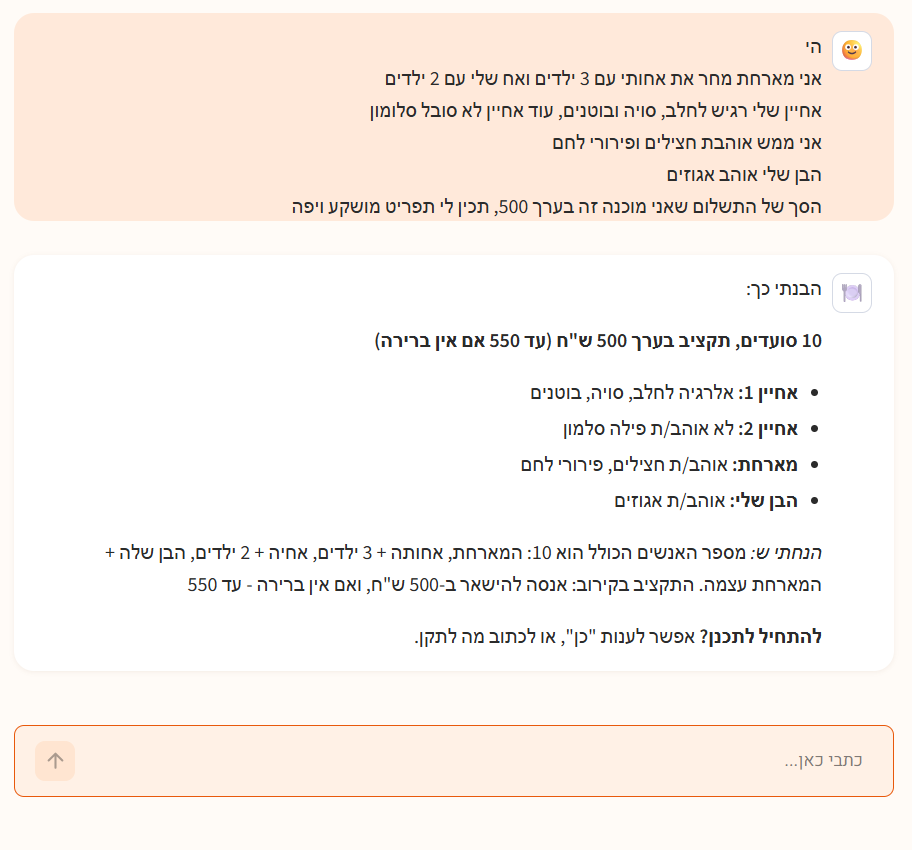
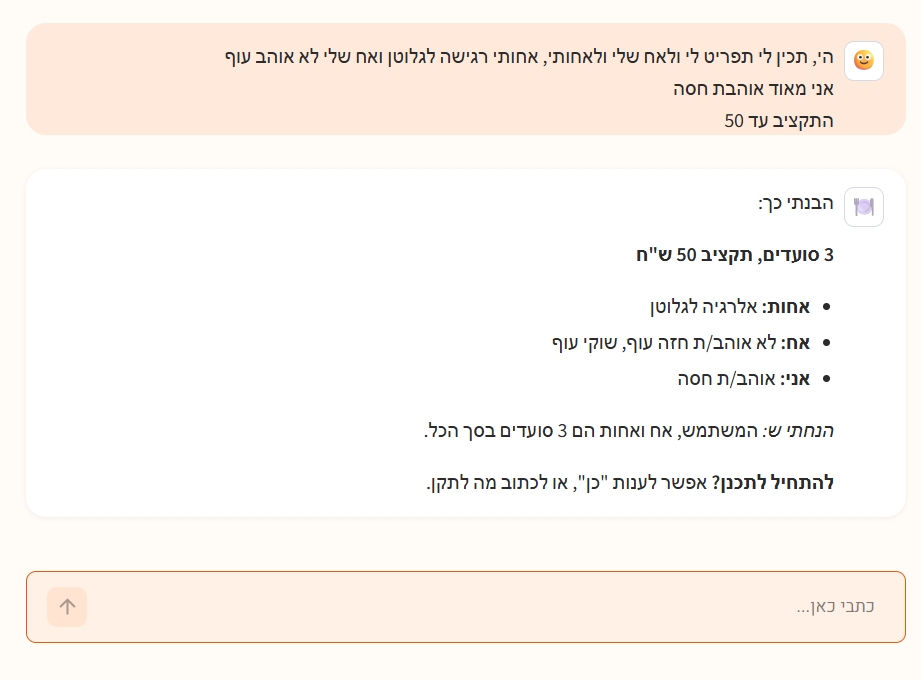
New understanding screenshot, caption to match

diff --git a/README.md b/README.md
@@ -21,7 +21,7 @@
 
 ### צילומי מסך מהצ'אט
 
-לפני שמתכננים, האג'נט מציג איך הבין את הבקשה ומחכה לאישור. "בערך 500" הפך ליעד של 500 ותקרה של 550. כאן רואים גם למה האישור חשוב: המודל ספר את המארחת פעמיים (10 סועדים במקום 9) - ואפשר לכתוב לו לתקן לפני שמתחילים:
+לפני שמתכננים, האג'נט מציג איך הבין את הבקשה ומחכה לאישור. מ"לי ולאח שלי ולאחותי" הוא הסיק 3 סועדים (ורשם את זה כהנחה), "עד 50" נשאר תקרה קשיחה, ו"לא אוהב עוף" תורגם למרכיבים שיש במאגר - חזה עוף ושוקי עוף:
 
 ![איך האג'נט הבין את הבקשה](demo/screenshots/2_understanding.png)
 
